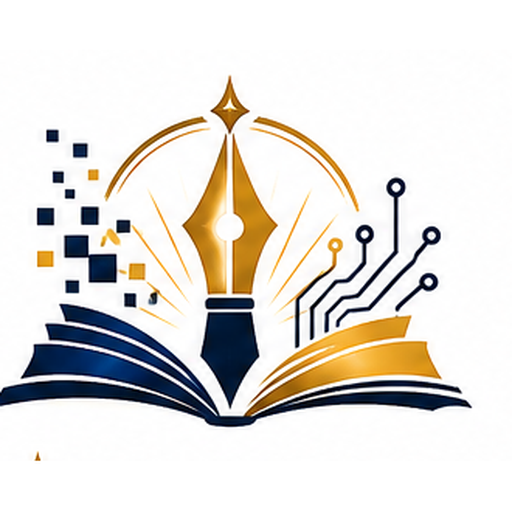
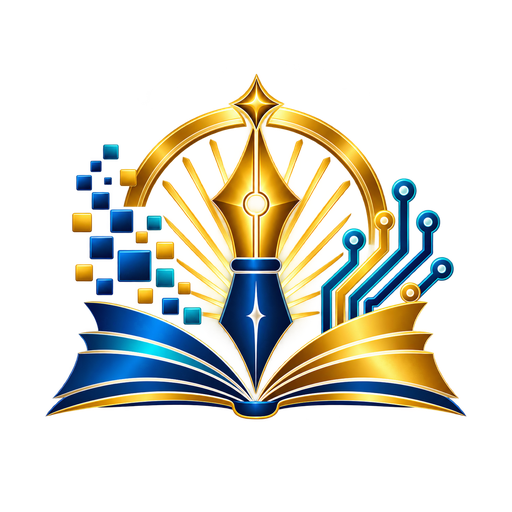
Add files via upload

diff --git a/images/README.md b/images/README.md
@@ -1,1 +1,3 @@
+# CodeBhavya improved images
 
+These files keep the original filenames so you can directly replace the old images in your GitHub project.
